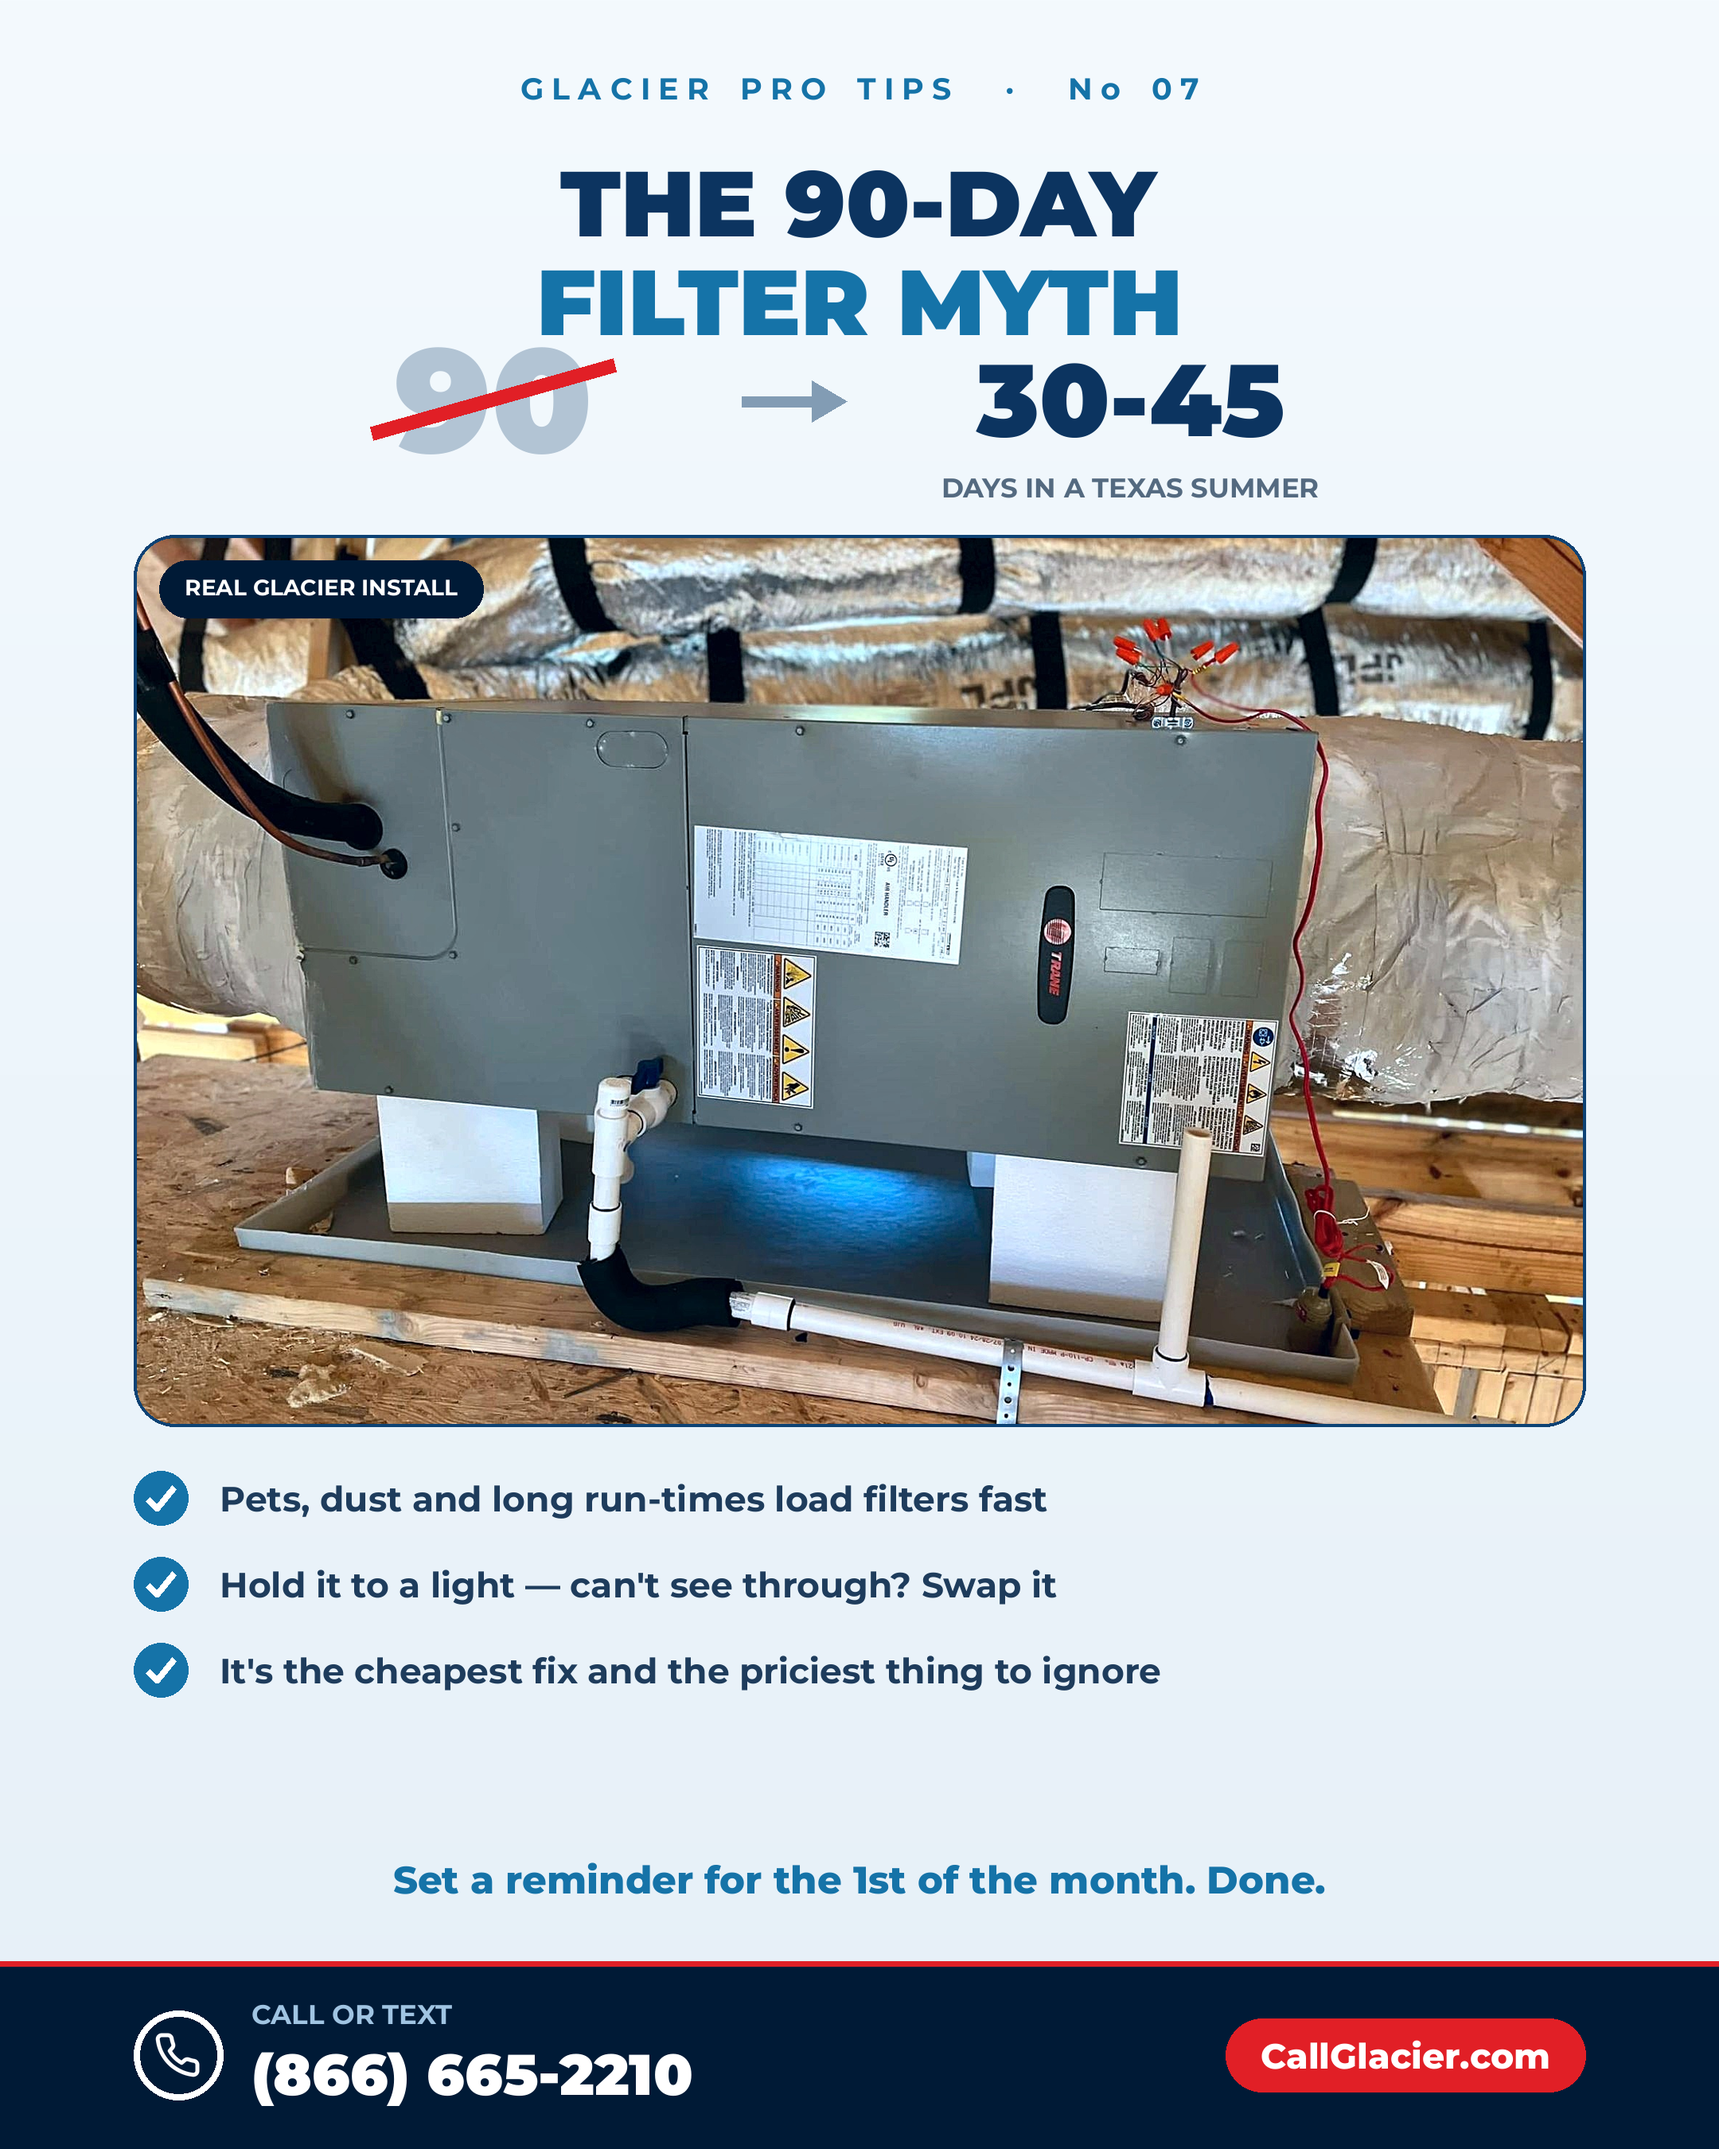
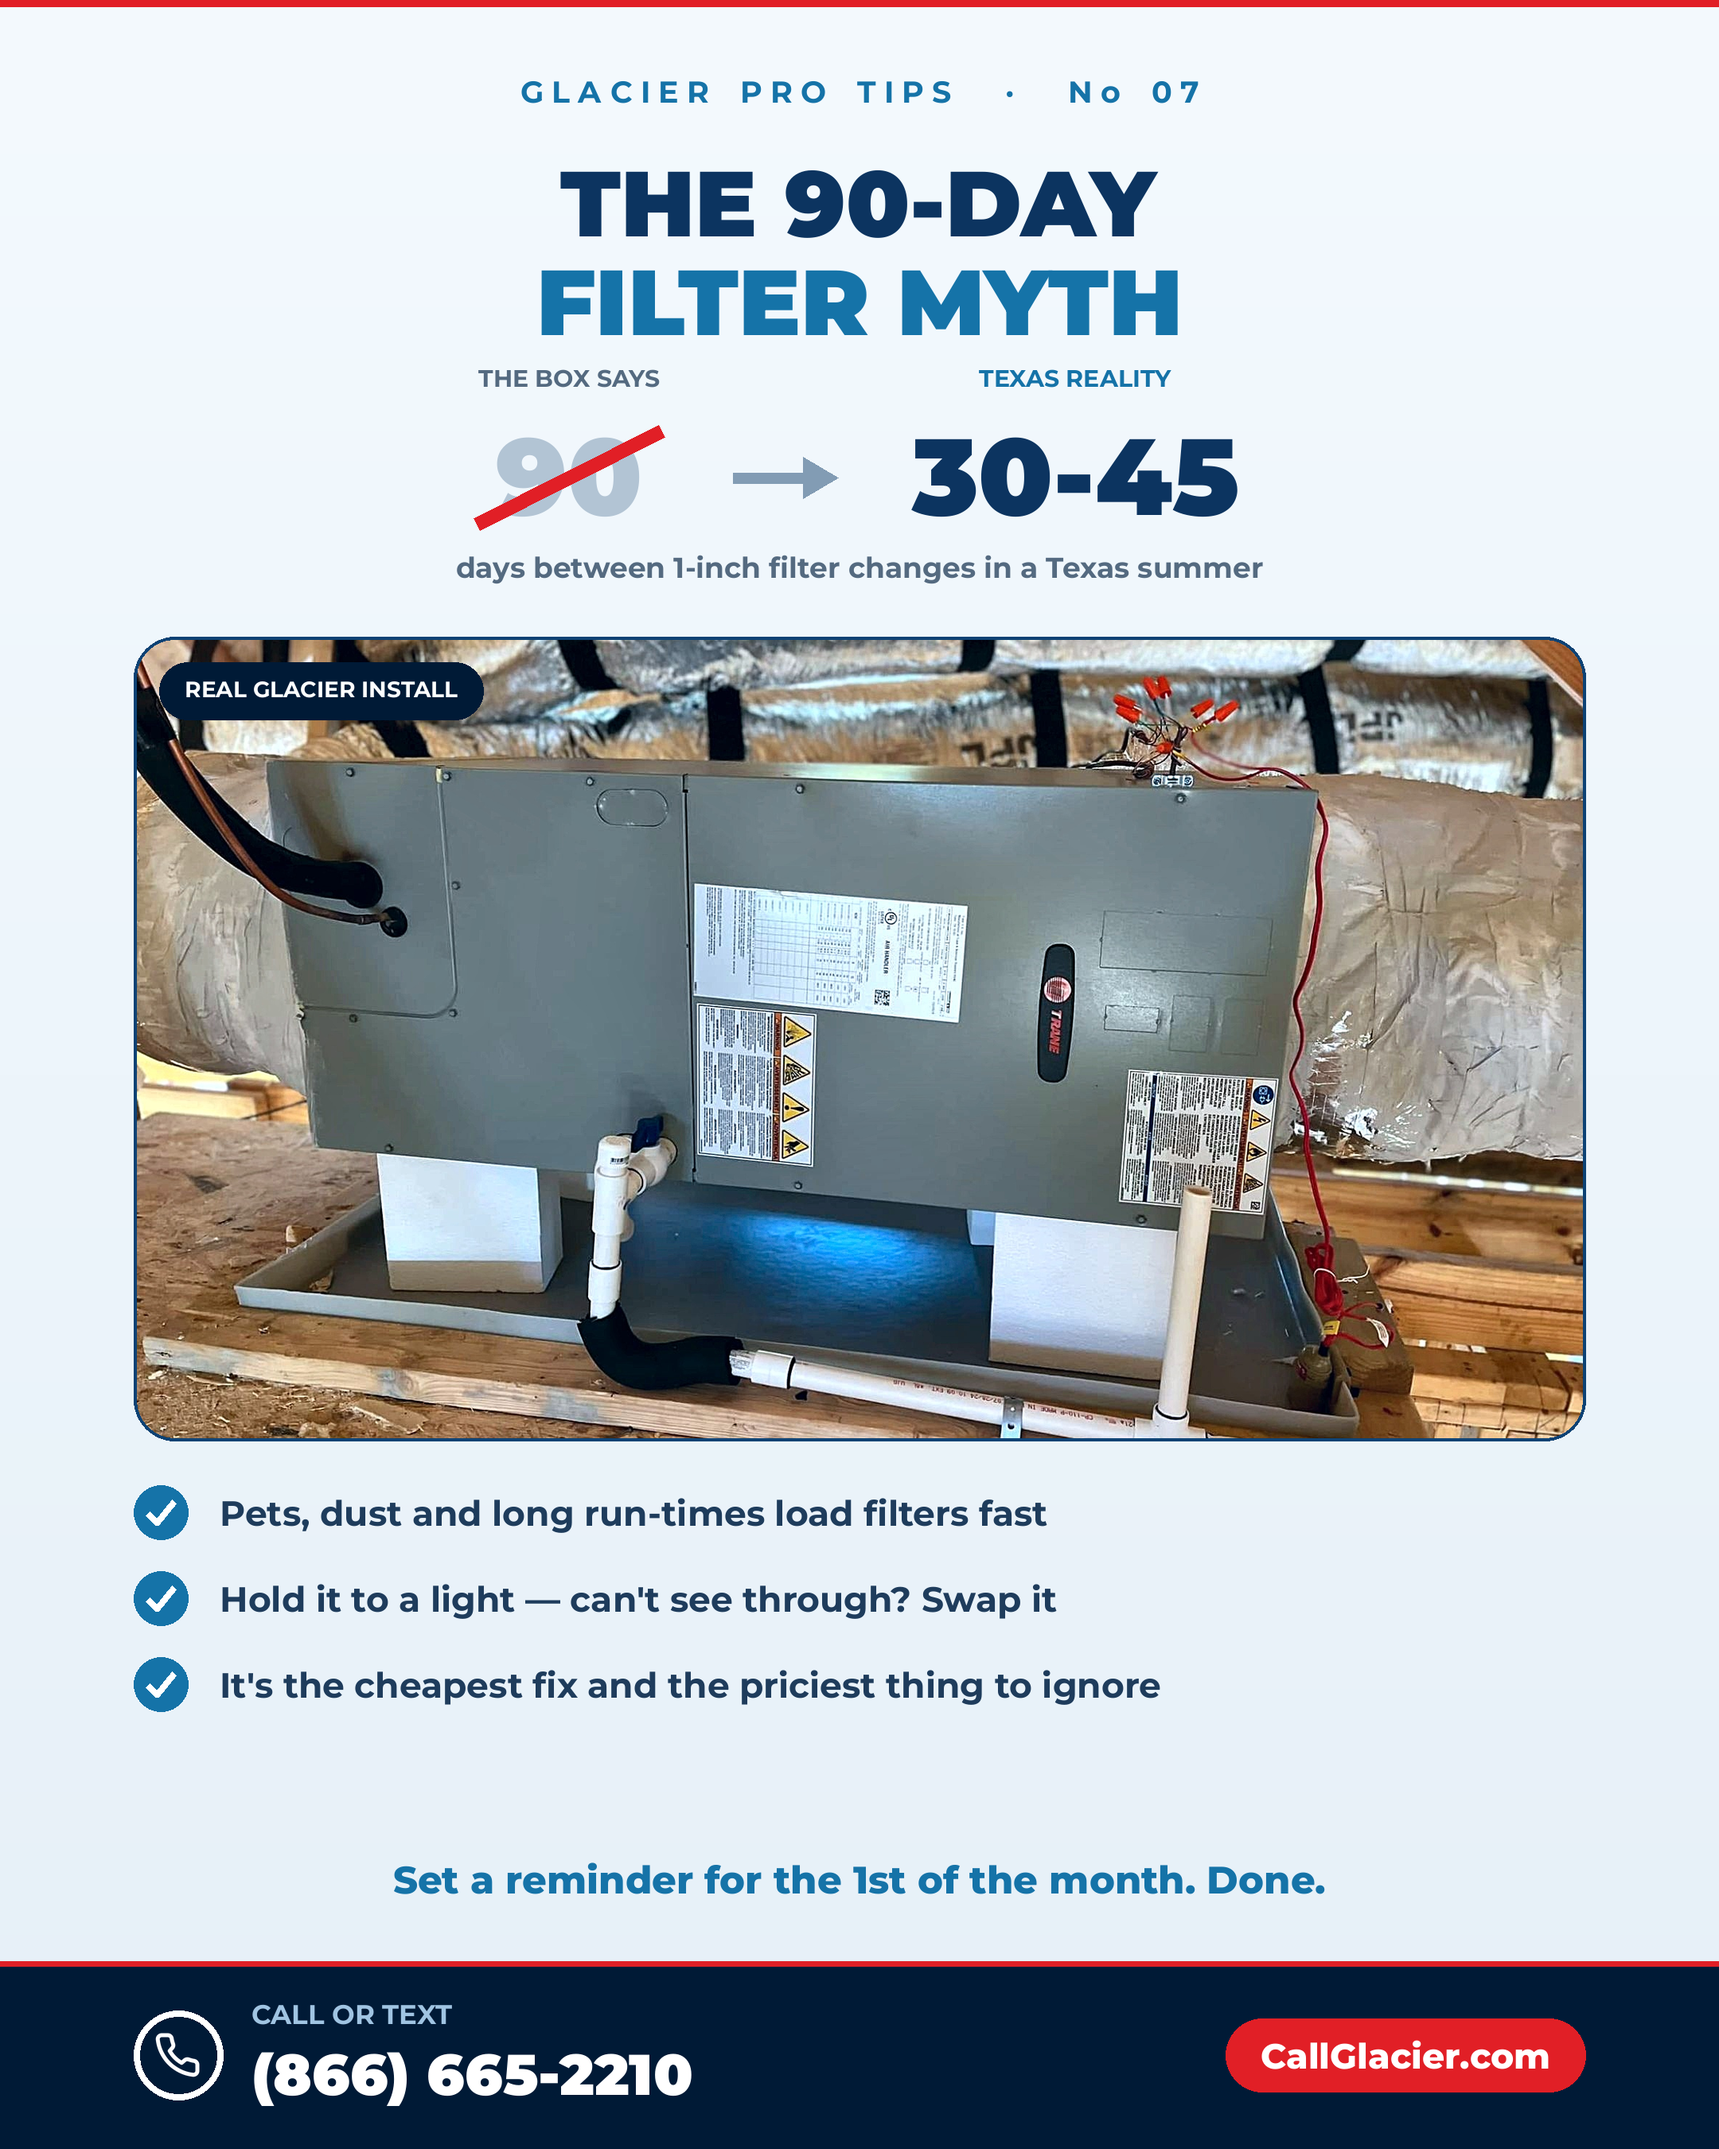
Polish pass on Pro Tips: symmetric 90->30-45 comparison, red top rule, spacing
Claude-Session: https://claude.ai/code/session_0176LFk56ELEVayoECBSNudw

Changed region(s): [[0.062, 0.1556, 0.9306, 0.8089], [0.0, 0.0, 1.0, 0.0622]]

diff --git a/glacier-site/scratchpad/make_tips.py b/glacier-site/scratchpad/make_tips.py
@@ -151,7 +151,8 @@ def footer_white(img):
 
 def eyebrow(d, num, dark=False):
     col=(160,206,236,255) if dark else ICE
-    tracked(d,f"GLACIER PRO TIPS  ·  No {num:02d}",f("Bold",19),56*SC,col,5)
+    d.rectangle([0,0,W,4*SC],fill=RED)
+    tracked(d,f"GLACIER PRO TIPS  ·  No {num:02d}",f("Bold",19),58*SC,col,5)
 
 def check_row(img,d,x,y,text,maxw,dark=False):
     cs=int(34*SC)
@@ -387,23 +388,37 @@ def p7():
     eyebrow(d,7)
     center(d,"THE 90-DAY",f("Black",58),128*SC,HEAD)
     center(d,"FILTER MYTH",f("Black",58),190*SC,ICE)
-    # 90 crossed -> 30-45
-    zone_y=int(252*SC)
-    f90=f("Black",92)
-    w90,h90,bb90=T(d,"90",f90)
-    x90=W//2-int(230*SC)
-    d.text((x90-w90/2-bb90[0],zone_y-h90/2-bb90[1]),"90",font=f90,fill=(178,196,212,255))
-    d.line([(x90-w90/2-14*SC,zone_y+h90*0.30),(x90+w90/2+14*SC,zone_y-h90*0.34)],fill=RED,width=9*SC)
-    ax0,ax1=W//2-int(74*SC),W//2-int(8*SC)
-    d.line([(ax0,zone_y),(ax1-int(12*SC),zone_y)],fill=(130,156,180,255),width=7*SC)
-    d.polygon([(ax1,zone_y),(ax1-int(22*SC),zone_y-int(13*SC)),(ax1-int(22*SC),zone_y+int(13*SC))],fill=(130,156,180,255))
-    fA=f("Black",64)
-    xa=W//2+int(170*SC)
-    w2,h2,bb2=T(d,"30-45",fA)
-    d.text((xa-w2/2-bb2[0],zone_y-h2/2-bb2[1]),"30-45",font=fA,fill=HEAD)
-    w3,_,bb3=T(d,"DAYS IN A TEXAS SUMMER",f("Bold",17))
-    d.text((xa-w3/2-bb3[0],zone_y+int(44*SC)),"DAYS IN A TEXAS SUMMER",font=f("Bold",17),fill=SLATE)
-    py=int(336*SC); ph_h=int(560*SC)
+    # measured, symmetric comparison: [THE BOX SAYS / 90] -> [TEXAS REALITY / 30-45]
+    fN=f("Black",68); fL=f("Bold",15)
+    n1,n2="90","30-45"
+    l1,l2="THE BOX SAYS","TEXAS REALITY"
+    w1=T(d,n1,fN)[0]; w2=T(d,n2,fN)[0]
+    lw1=T(d,l1,fL)[0]; lw2=T(d,l2,fL)[0]
+    c1=max(w1,lw1); c2=max(w2,lw2)          # column widths
+    AR=int(66*SC); GAP=int(46*SC)           # arrow width, gaps
+    total=c1+GAP+AR+GAP+c2
+    x0=(W-total)//2
+    cx1=x0+c1//2; cx2=x0+c1+GAP+AR+GAP+c2//2
+    lab_y=int(238*SC); num_y=int(300*SC)
+    for cx,lab,col in ((cx1,l1,SLATE),(cx2,l2,ICE)):
+        wl,hl,bbl=T(d,lab,fL)
+        d.text((cx-wl/2-bbl[0],lab_y-hl/2-bbl[1]),lab,font=fL,fill=col)
+    # 90 (struck through its measured ink bounds)
+    wn,hn,bbn=T(d,n1,fN)
+    tx=cx1-wn/2-bbn[0]; ty=num_y-hn/2-bbn[1]
+    d.text((tx,ty),n1,font=fN,fill=(178,196,212,255))
+    ix0,iy0,ix1,iy1=tx+bbn[0],ty+bbn[1],tx+bbn[2],ty+bbn[3]
+    pad=int(12*SC)
+    d.line([(ix0-pad,iy1+int(4*SC)),(ix1+pad,iy0-int(4*SC))],fill=RED,width=9*SC)
+    # arrow, vertically centered on the numbers
+    acx=x0+c1+GAP+AR//2
+    d.line([(acx-AR//2,num_y),(acx+AR//2-int(14*SC),num_y)],fill=(130,156,180,255),width=7*SC)
+    d.polygon([(acx+AR//2,num_y),(acx+AR//2-int(22*SC),num_y-int(13*SC)),(acx+AR//2-int(22*SC),num_y+int(13*SC))],fill=(130,156,180,255))
+    # 30-45
+    wn2,hn2,bbn2=T(d,n2,fN)
+    d.text((cx2-wn2/2-bbn2[0],num_y-hn2/2-bbn2[1]),n2,font=fN,fill=HEAD)
+    center(d,"days between 1-inch filter changes in a Texas summer",f("Bold",18),int(358*SC),SLATE)
+    py=int(400*SC); ph_h=int(505*SC)
     photo_card(img,"brand/jobs/raw/b6-26-trane-airhandler-side-full.jpg",(M,py,W-2*M,ph_h))
     d=ImageDraw.Draw(img,"RGBA")
     bt="REAL GLACIER INSTALL"; fb=f("Bold",14)
